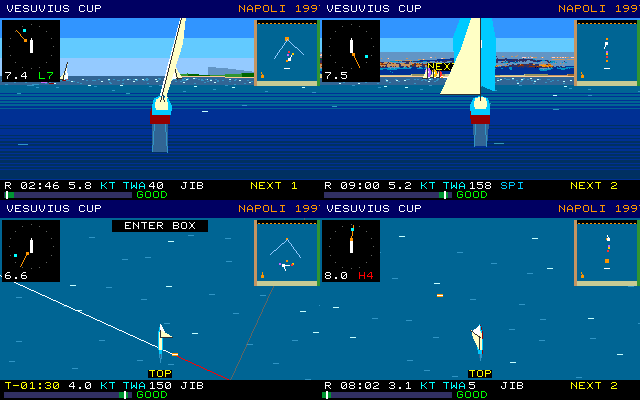
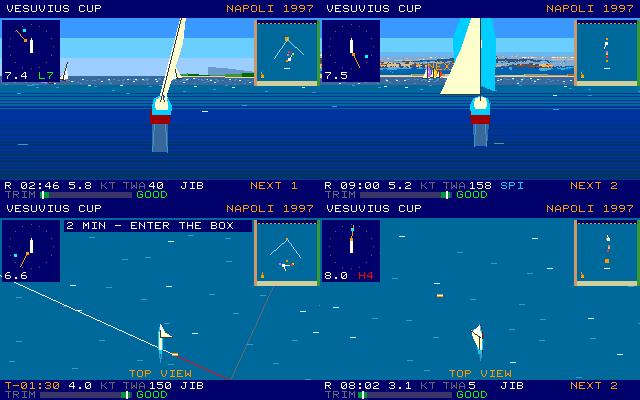
Release 4.2.0: consistent colours, navy race panels
- Load all 256 palette entries at start-up so colours no longer depend on
  the runtime's default palette or on the previous cartridge (the PRG32
  emulators showed a pink sea and colours that changed from run to run).
- Panoramas use their 16 authored colours exactly (entries 232-247).
- UI colours sit on cube levels so text backgrounds match fills everywhere.
- Restore the 4.0.0 race look: navy panels and HUD, orange/grey labels,
  TRIM label, full start banners, TOP VIEW and NEXT labels.
- Fix the clipped "NAPOLI 1997" header and draw the title's apostrophe.
- Regenerate store screenshots; document the text cost in PERFORMANCE.md.

diff --git a/src/game.c b/src/game.c
@@ -8,18 +8,20 @@
 #define H 200
 #define BLACK 0x0000
 #define WHITE 0xffff
-#define SEA 0x0452
-#define SKY 0x65df
-#define NAVY 0x0010
-#define GOLD 0xfda0
 #define RED 0xf800
 #define GREEN 0x07e0
 #define CYAN 0x07ff
-#define GREY 0x8410
-#define LAND 0x39e7
-/* Race-view colours sit exactly on the display's 6x6x6 colour cube, so the
-   indexed ILI9341 panel shows the same shades as the RGB565 QEMU display. */
+/* Every colour sits exactly on the 6x6x6 cube the cartridge loads into the
+   palette at start-up (set_palette), so the ILI9341 panel, QEMU and the
+   PRG32 emulators all resolve a colour to the same entry and text
+   backgrounds match the fills around them. */
 #define C6(r,g,b) ((uint16_t)((((r)*31+4)/5)<<11|(((g)*63+4)/5)<<5|(((b)*31+4)/5)))
+#define SEA C6(0,2,3)
+#define SKY C6(1,3,5)
+#define NAVY C6(0,0,2)
+#define GOLD C6(5,3,0)
+#define GREY C6(2,2,2)
+#define LAND C6(1,1,1)
 #define SKY1 C6(1,3,5)
 #define SKY2 C6(2,4,5)
 #define SKY3 C6(3,4,5)
@@ -38,12 +40,11 @@
 #define BUOY C6(5,3,0)
 #define SAND C6(5,4,3)
 #define LAND_GROUND C6(2,3,1)
-/* Race text sits on black and uses the firmware's named colours: the ILI9341
-   backend converts every text pixel, and only named colours skip its three
-   divisions (measured: 2,378 instructions per white-on-black character
-   against 7,053 on navy). */
-#define PANEL BLACK
-#define YELLOW 0xffe0
+/* Race instruments and HUD sit on navy panels. The ILI9341 backend converts
+   every text pixel and only named colours skip its three divisions, so a
+   navy-backed character costs about 7,000 instructions against 2,400 on
+   black: roughly 1 ms per HUD refresh, well inside the SPI-bound frame. */
+#define PANEL NAVY
 #define RACES 5
 #define START_COUNTDOWN_SECONDS 600
 #define RACE_LIMIT_SECONDS 2700
@@ -118,9 +119,16 @@ static uint32_t last_input,frame,rng=0x97ca1997u,wind_seed;static int team_sel,m
 /* PRG32's ILI9341 backend fills palette-indexed spans with memset but
    converts RGB565 colours pixel by pixel, so every fill goes through the
    palette index the firmware would pick for that colour. */
+#define BG_BASE 232
+/* The palette is runtime state: the emulators start from a 3-3-2 palette and
+   every runtime keeps whatever the previous cartridge loaded. Load all 256
+   entries so colours are identical on every device and every run: the eight
+   named colours, the firmware's system colours, the 6x6x6 cube that ci()
+   indexes, the panoramas' own 16 colours exactly, and a grey ramp. */
+static void set_palette(void){static const uint16_t sys[16]={0x0000,0xffff,0xf800,0x07e0,0x001f,0xffe0,0x07ff,0xf81f,0x8410,0xc618,0x8000,0x0400,0x0010,0x8400,0x0410,0x8010};unsigned i;for(i=0;i<16;i++)prg32_palette_set((uint8_t)i,sys[i]);for(i=0;i<216;i++)prg32_palette_set((uint8_t)(16u+i),C6(i/36u,i/6u%6u,i%6u));for(i=0;i<16;i++)prg32_palette_set((uint8_t)(BG_BASE+i),fairwind_background_palette[i]);for(i=0;i<8;i++){unsigned v=i*31u/7u;prg32_palette_set((uint8_t)(BG_BASE+16u+i),(uint16_t)(v<<11|(v*2u+(v>>4))<<5|v));}}
 static uint8_t ci(uint16_t c){static const uint16_t named[8]={0x0000,0xffff,0xf800,0x07e0,0x001f,0xffe0,0x07ff,0xf81f};uint8_t i;for(i=0;i<8;i++)if(c==named[i])return i;return (uint8_t)(16u+((c>>11)&31u)*5u/31u*36u+((c>>5)&63u)*5u/63u*6u+(c&31u)*5u/31u);}
 static void fill(int x,int y,int w,int h,uint16_t c){prg32_gfx_rect_indexed(x,y,w,h,ci(c));}
-static uint32_t rnd(void){rng^=rng<<13;rng^=rng>>17;rng^=rng<<5;return rng;}static int absi(int n){return n<0?-n:n;}static int slen(const char *t){int n=0;while(t[n])n++;return n;}static int clamp(int n,int lo,int hi){return n<lo?lo:n>hi?hi:n;}
+static uint32_t rnd(void){rng^=rng<<13;rng^=rng>>17;rng^=rng<<5;return rng;}static int absi(int n){return n<0?-n:n;}static int clamp(int n,int lo,int hi){return n<lo?lo:n>hi?hi:n;}
 static void number(int x,int y,int n,uint16_t fg,uint16_t bg){char b[8];int i=6;b[7]=0;if(n<0)n=0;do{b[i--]=(char)('0'+n%10);n/=10;}while(n&&i>=0);while(i>=0)b[i--]=' ';prg32_gfx_text8(x,y,b,fg,bg);}static void digit(int x,int y,int n,uint16_t fg,uint16_t bg){char b[2];b[0]=(char)('0'+clamp(n,0,9));b[1]=0;prg32_gfx_text8(x,y,b,fg,bg);}static void clock_mmss(int x,int y,int n,uint16_t fg,uint16_t bg){char b[6];int m;if(n<0)n=0;m=clamp(n/60,0,99);b[0]=(char)('0'+m/10);b[1]=(char)('0'+m%10);b[2]=':';b[3]=(char)('0'+(n%60)/10);b[4]=(char)('0'+n%10);b[5]=0;prg32_gfx_text8(x,y,b,fg,bg);}static void box(int x,int y,int w,int h,uint16_t e,uint16_t f){fill(x,y,w,h,e);fill(x+2,y+2,w-4,h-4,f);}
 /* Left-aligned integer, optionally with one decimal (n in tenths). */
 static void small_num(int x,int y,int n,int tenths,uint16_t fg,uint16_t bg){char b[8];int i=0,d=1;if(n<0)n=0;if(n>9999)n=9999;while(n/d>=10)d*=10;if(tenths&&d<10)d=10;for(;d;d/=10){if(tenths&&d==1)b[i++]='.';b[i++]=(char)('0'+n/d%10);}b[i]=0;prg32_gfx_text8(x,y,b,fg,bg);}
@@ -434,14 +442,14 @@ static void update_race(uint32_t in,uint32_t released){
     if(race_clock>RACE_LIMIT_SECONDS)for(i=0;i<4;i++)if(!boats[i].finished){boats[i].finished=1;boats[i].finish_time=(uint16_t)(race_clock+600+(COURSE_MARKS_MAX+1-(boats[i].started?boats[i].leg+1:0))*30);}
     if((done&&start_clock==0)||race_clock>RACE_LIMIT_SECONDS){score_race();screen=ST_RESULT;menu=0;prg32_audio_play_track(2);}
 }
-void fairwind_init(void){int i;for(i=0;i<16;i++)bg_idx[i]=ci(fairwind_background_palette[i]);prg32_gfx_clear(SEA);setup_sprites();prg32_band_set_game_info("FairWind-napoli97 | portable 64 KiB | multiplayer");prg32_audio_play_track(0);screen=ST_TITLE;}
+void fairwind_init(void){int i;set_palette();for(i=0;i<16;i++)bg_idx[i]=(uint8_t)(BG_BASE+i);prg32_gfx_clear_indexed(ci(SEA));setup_sprites();prg32_band_set_game_info("FairWind-napoli97 | portable 64 KiB | multiplayer");prg32_audio_play_track(0);screen=ST_TITLE;}
 void fairwind_update(void){uint32_t in=prg32_input_read(),p=in&~last_input,r=last_input&~in,now=prg32_ticks_ms();frame++;frame_ms=last_ticks?clamp((int)(now-last_ticks),10,66):FRAME_MS;last_ticks=now;if(p)ui_dirty=1;if(screen==ST_TITLE&&(p&PRG32_BTN_A))screen=ST_MODE;else if(screen==ST_MODE){if(p&(PRG32_BTN_UP|PRG32_BTN_DOWN))multiplayer=!multiplayer;if(p&PRG32_BTN_A)new_campaign();}else if(screen==ST_TEAM){if(p&PRG32_BTN_LEFT)team_sel=(team_sel+3)%4;if(p&PRG32_BTN_RIGHT)team_sel=(team_sel+1)%4;if(p&PRG32_BTN_A){menu=0;screen=ST_MANAGER;}}else if(screen==ST_MANAGER)update_manager(p);else if(screen==ST_BRIEF){if(p&(PRG32_BTN_LEFT|PRG32_BTN_UP))course_sel=(course_sel+COURSE_COUNT-1)%COURSE_COUNT;if(p&(PRG32_BTN_RIGHT|PRG32_BTN_DOWN))course_sel=(course_sel+1)%COURSE_COUNT;if(p&PRG32_BTN_A){if(multiplayer){peer_count=local_ready=0;if(fairwind_net_join(course_sel))screen=ST_LOBBY;else multiplayer=0;}if(!multiplayer)start_race();}}else if(screen==ST_LOBBY)update_lobby(p);else if(screen==ST_RACE)update_race(in,r);else if(screen==ST_RESULT&&(p&PRG32_BTN_A)){if(multiplayer)prg32_multiplayer_leave();race_no++;if(race_no>=RACES)screen=ST_SEASON;else{menu=0;screen=ST_MANAGER;prg32_audio_play_track(0);}}else if(screen==ST_SEASON&&(p&PRG32_BTN_A)){screen=ST_TITLE;prg32_audio_play_track(0);}last_input=in;}
 
 /* ------------------------------------------------------------- menus -- */
-static void header(const char *t){fill(0,0,W,18,NAVY);prg32_gfx_text8(6,5,t,WHITE,NAVY);prg32_gfx_text8(238,5,"NAPOLI 1997",GOLD,NAVY);}
+static void header(const char *t){fill(0,0,W,18,NAVY);prg32_gfx_text8(6,5,t,WHITE,NAVY);prg32_gfx_text8(226,5,"NAPOLI 1997",GOLD,NAVY);}
 static void landscape(void){unsigned scene=(unsigned)(race_no%RACES),i=fairwind_background_offsets[scene],end=fairwind_background_offsets[scene+1];int x=0,y=27;fill(0,18,W,33,SKY);while(i<end){int count=fairwind_background_rle8[i++];uint8_t color=bg_idx[fairwind_background_rle8[i++]];while(count){int width=count<320-x?count:320-x;prg32_gfx_rect_indexed(x,y,width,1,color);x+=width;count-=width;if(x==320){x=0;y++;}}}fill(0,51,W,15,SEA);}
 /* The FairWind logo on a white badge over the venue skyline. */
-static void draw_title(void){header("FairWind");landscape();fill(106,56,108,108,WHITE);fairwind_draw_sprite(112,62,&logo_sprite,0);prg32_gfx_text8(49,170,"12-METRE AMERICA'S CUP",WHITE,SEA);prg32_gfx_text8(76,186,"PRESS A TO SET SAIL",GOLD,SEA);}
+static void draw_title(void){header("FairWind");landscape();fill(106,56,108,108,WHITE);fairwind_draw_sprite(112,62,&logo_sprite,0);prg32_gfx_text8(49,170,"12-METRE AMERICA S CUP",WHITE,SEA);fill(180,170,2,3,WHITE);prg32_gfx_text8(76,186,"PRESS A TO SET SAIL",GOLD,SEA);}
 static void draw_mode(void){header("CHAMPIONSHIP MODE");box(48,48,224,78,GREY,NAVY);prg32_gfx_text8(77,67,"SINGLE PLAYER",!multiplayer?GOLD:WHITE,NAVY);prg32_gfx_text8(77,94,"NETWORK MULTIPLAYER",multiplayer?GOLD:WHITE,NAVY);prg32_gfx_text8(74,151,"UP/DOWN  A CONFIRM",WHITE,SEA);}
 static void draw_team(void){int i;header("CHOOSE YOUR SYNDICATE");for(i=0;i<4;i++){int y=28+i*36;box(24,y,272,29,i==team_sel?GOLD:GREY,NAVY);fill(34,y+7,20,15,teams[i].color);prg32_gfx_text8(64,y+6,teams[i].name,WHITE,NAVY);prg32_gfx_text8(64,y+17,teams[i].code,GOLD,NAVY);}prg32_gfx_text8(55,178,"LEFT/RIGHT  A CONFIRM",WHITE,SEA);}
 static void statrow(int y,const char *n,int v,int s){int i;prg32_gfx_text8(30,y,n,s?GOLD:WHITE,NAVY);for(i=0;i<8;i++)fill(132+i*13,y,10,7,i<v?CYAN:GREY);}
@@ -609,7 +617,7 @@ static void draw_buoy(int x,int y,int next){
     proj(&base,&sx,&sy);proj(&top,&tx,&ty);w=top_view_mode?3:1+(int)(10*FOCAL/base.z);if(sx<-20||sx>W+20)return;
     if(ty>sy-2)ty=sy-2;rect_clip(sx-w,ty,2*w,sy-ty+1,ci(BUOY));rect_clip(sx-w,(ty+sy)/2,2*w,1,1);
     if(next&&(frame&16)){uint8_t g=ci(GOLD);rect_clip(sx-w-3,ty-3,2*w+6,1,g);rect_clip(sx-w-3,sy+2,2*w+6,1,g);rect_clip(sx-w-3,ty-3,1,sy-ty+6,g);rect_clip(sx+w+2,ty-3,1,sy-ty+6,g);}
-    if(next&&ty-12>CLIP_TOP&&sx>16&&sx<W-16)prg32_gfx_text8(sx-15,ty-12,"NEXT",YELLOW,PANEL);
+    if(next&&ty-12>CLIP_TOP&&sx>16&&sx<W-16)prg32_gfx_text8(sx-15,ty-12,"NEXT",GOLD,top_view_mode?SEA2:SEA1);
     if(next&&top_view_mode){int i;for(i=0;i<32;i++){v3 z=cam_pt(x*10+((MARK_ZONE*10*fsin((uint16_t)(i*2048)))>>14),y*10+((MARK_ZONE*10*fcos((uint16_t)(i*2048)))>>14),0);int zx,zy;if(plane_d(&z,0)<0||plane_d(&z,1)<0||plane_d(&z,2)<0||plane_d(&z,3)<0)continue;proj(&z,&zx,&zy);rect_clip(zx,zy,1,1,ci(GOLD));}}
 }
 /* Committee boat with flag hoist: orange line flag, class "12" to the start,
@@ -678,20 +686,19 @@ static void draw_minimap(void){
     for(i=3;i>=0;i--){int bx=map_x(boats[i].x/1000),by=map_y(boats[i].y/1000);if(i){fill(bx-1,by-1,2,2,teams[boats[i].team&3].kite);continue;}line2(bx,by,bx+(int)((5*fsin(boats[0].heading))>>14),by-(int)((5*fcos(boats[0].heading))>>14),WHITE);fill(bx-1,by-1,3,3,WHITE);}
     line2(262+(int)((5*fsin(twd))>>14),76-(int)((5*fcos(twd))>>14),262,76,GOLD);fill(261,75,3,3,GOLD);
 }
-/* Short signal banners: the HUD already counts down, and every text pixel is
-   converted by the firmware, so the banner names only the flag in force. */
-static void draw_start_signal(void){const char *msg;if(start_clock>300)msg="WARNING";else if(start_clock>240)msg="CLASS FLAG";else if(start_clock>120)msg="P FLAG UP";else if(start_clock>60)msg="ENTER BOX";else if(start_clock>0)msg="P FLAG DOWN";else msg="START";fill(112,20,96,12,PANEL);prg32_gfx_text8(160-4*slen(msg),22,msg,start_clock?WHITE:YELLOW,PANEL);if(time_scale()>RACE_TIME_SCALE)prg32_gfx_text8(148,34,"x20",YELLOW,PANEL);}
+/* Start-sequence banner: the signal in force and what it asks of the crews. */
+static void draw_start_signal(void){const char *msg;if(start_clock>300)msg="10 MIN - WARNING";else if(start_clock>240)msg="5 MIN - CLASS SIGNAL";else if(start_clock>120)msg="4 MIN - P FLAG UP";else if(start_clock>60)msg="2 MIN - ENTER THE BOX";else if(start_clock>0)msg="1 MIN - P FLAG DOWN";else msg="START - CLASS FLAG DOWN";fill(64,20,188,12,PANEL);prg32_gfx_text8(66,22,msg,start_clock?WHITE:GOLD,PANEL);if(time_scale()>RACE_TIME_SCALE)prg32_gfx_text8(64,34,">> x20",GOLD,PANEL);}
 static void draw_hud(void){
-    const boat_t *b=&boats[0];int len=course_len[course_sel],opt=trim_opt(awa_deg(b)),err=absi(b->boom)-opt,kp=b->kite_prog*100/65535;const char *msg=0;uint16_t mc=YELLOW;
+    const boat_t *b=&boats[0];int len=course_len[course_sel],opt=trim_opt(awa_deg(b)),err=absi(b->boom)-opt,kp=b->kite_prog*100/65535;const char *msg=0;uint16_t mc=GOLD;
     fill(0,CLIP_BOT,W,H-CLIP_BOT,PANEL);
-    prg32_gfx_text8(4,182,start_clock?"T-":"R",start_clock?YELLOW:WHITE,PANEL);clock_mmss(20,182,start_clock?start_clock:race_clock,start_clock?YELLOW:WHITE,PANEL);
-    small_num(68,182,(int)((b->v>>8)*100/5144),1,WHITE,PANEL);prg32_gfx_text8(100,182,"KT",CYAN,PANEL);
-    prg32_gfx_text8(122,182,"TWA",CYAN,PANEL);small_num(148,182,absi(BAM2DEG(b->twa)),0,WHITE,PANEL);
+    prg32_gfx_text8(4,182,start_clock?"T-":"R",start_clock?GOLD:WHITE,PANEL);clock_mmss(20,182,start_clock?start_clock:race_clock,start_clock?GOLD:WHITE,PANEL);
+    small_num(68,182,(int)((b->v>>8)*100/5144),1,WHITE,PANEL);prg32_gfx_text8(100,182,"KT",GREY,PANEL);
+    prg32_gfx_text8(122,182,"TWA",GREY,PANEL);small_num(148,182,absi(BAM2DEG(b->twa)),0,WHITE,PANEL);
     prg32_gfx_text8(180,182,b->kite==KITE_SPIN?"SPI":b->kite==KITE_GENN?"GEN":"JIB",b->kite?teams[b->team&3].kite:WHITE,PANEL);
-    if(b->kite!=b->kite_want||(b->kite&&kp<100)){small_num(206,182,kp,0,YELLOW,PANEL);prg32_gfx_text8(230,182,b->kite!=b->kite_want?"v":"^",YELLOW,PANEL);}
-    if(b->started&&b->leg<len){prg32_gfx_text8(250,182,"NEXT",YELLOW,PANEL);digit(290,182,b->leg+1,YELLOW,PANEL);}else if(b->started)prg32_gfx_text8(250,182,"FINISH",YELLOW,PANEL);
-    fill(4,192,128,6,C6(1,1,2));fill(4+opt*14/10-4,192,9,6,C6(0,3,1));fill(4+b->sheet*14/10,197,1,2,GOLD);fill(4+clamp(absi(b->boom),0,90)*14/10,191,2,8,WHITE);
-    prg32_gfx_text8(136,191,err>8?"LUFF":err<-12?"STALL":"GOOD",err>8?RED:err<-12?YELLOW:GREEN,PANEL);
+    if(b->kite!=b->kite_want||(b->kite&&kp<100)){small_num(206,182,kp,0,GOLD,PANEL);prg32_gfx_text8(230,182,b->kite!=b->kite_want?"v":"^",GOLD,PANEL);}
+    if(b->started&&b->leg<len){prg32_gfx_text8(250,182,"NEXT",GOLD,PANEL);digit(290,182,b->leg+1,GOLD,PANEL);}else if(b->started)prg32_gfx_text8(250,182,"FINISH",GOLD,PANEL);
+    prg32_gfx_text8(4,191,"TRIM",GREY,PANEL);fill(40,192,92,6,C6(1,1,2));fill(40+opt-4,192,9,6,C6(0,3,1));fill(40+b->sheet,197,1,2,GOLD);fill(40+clamp(absi(b->boom),0,90),191,2,8,WHITE);
+    prg32_gfx_text8(136,191,err>8?"LUFF":err<-12?"STALL":"GOOD",err>8?RED:err<-12?GOLD:GREEN,PANEL);
     if(b->serving)msg="PENALTY TURN";
     else if(b->penalty){msg=(frame&32)?rule_names[b->rule]:"A+B PENALTY";mc=RED;}
     else if(b->aground){msg=b->y>(FIELD_Y1-20)*1000?"AREA LIMIT":"AGROUND";mc=RED;}
@@ -708,7 +715,7 @@ static void draw_race(void){
     if(!race_header){header(race_names[race_no]);race_header=1;}
     draw_wind_gauge();draw_minimap();
     if(start_line_active)draw_start_signal();
-    if(top_view_mode)prg32_gfx_text8(148,170,"TOP",YELLOW,PANEL);
+    if(top_view_mode)prg32_gfx_text8(128,170,"TOP VIEW",GOLD,SEA2);
     /* The header is static and the HUD refreshes at 7.5 Hz, so most frames
        push only rows 18-179 over SPI. */
     if(!(frame&3)||hud_force){draw_hud();hud_force=0;}

diff --git a/tests/source_checks.py b/tests/source_checks.py
@@ -40,14 +40,14 @@ assert 'me->kite_want==KITE_SPIN?KITE_NONE:KITE_SPIN' in s and 'me->kite_want==K
 assert '(PRG32_BTN_A|PRG32_BTN_B))==(PRG32_BTN_A|PRG32_BTN_B)' in s and 'begin_penalty_turn(me)' in s
 assert 'b->kite_prog' in s and 'b->kite=b->kite_want' in s
 # Close-quarters top view with hysteresis.
-assert 'TOP_VIEW_ENTER 70' in s and 'TOP_VIEW_EXIT 100' in s and 'close_to_rival_or_buoy(top_view_mode?TOP_VIEW_EXIT:TOP_VIEW_ENTER)' in s and '"TOP"' in s
+assert 'TOP_VIEW_ENTER 70' in s and 'TOP_VIEW_EXIT 100' in s and 'close_to_rival_or_buoy(top_view_mode?TOP_VIEW_EXIT:TOP_VIEW_ENTER)' in s and '"TOP VIEW"' in s
 # AI: timed start, VMG beats/runs with shift and layline tacking, rules, kites.
 assert 'static void helm_ai(boat_t *b)' in s and 'static uint16_t vmg_heading(' in s and 'layline_cos[4]' in s
 assert 'static uint16_t avoid_traffic(' in s and 'static int gives_way(' in s and 'kite_for(' in s and 'clear_water(b,45)' in s
 # Campaign, courses, start and finish.
 assert 'NAPOLI 1997' in s and 'RACES 5' in s and 'sponsors[4]' in s and 'money+=' in s and 'wins++' in s
 assert 'START_COUNTDOWN_SECONDS 600' in s and 'FAST_TIME_SCALE 20' in s and 'RACE_TIME_SCALE 4' in s
-assert '"WARNING"' in s and '"CLASS FLAG"' in s and '"P FLAG UP"' in s and '"ENTER BOX"' in s and '"P FLAG DOWN"' in s and 'msg="START"' in s
+assert '"10 MIN - WARNING"' in s and '"5 MIN - CLASS SIGNAL"' in s and '"4 MIN - P FLAG UP"' in s and '"2 MIN - ENTER THE BOX"' in s and '"1 MIN - P FLAG DOWN"' in s and 'msg="START - CLASS FLAG DOWN"' in s
 assert 'entered_box' in s and 'BOX_HALF' in s and 'if(all_started)start_line_active=0' in s
 assert 'course_names[COURSE_COUNT]' in s and 'course_len[COURSE_COUNT]={3,5,6}' in s
 assert 'WINDWARD / RUN' in s and 'OLYMPIC TRIANGLE' in s and '1992 IACC Z' in s
@@ -63,6 +63,9 @@ assert 'local_ready' in s and 'peer.flags&0x140' in s and 'if(!(p.flags&0x100))c
 # static header, a throttled HUD and menus that redraw only on change.
 assert 'prg32_gfx_rect_indexed' in s and 'prg32_gfx_pixel_indexed' in s and 'prg32_gfx_clear_indexed' in s
 assert 'prg32_gfx_rect(' not in s and 'prg32_gfx_pixel(' not in s
+# The cartridge owns the palette: identical colours on every runtime and run.
+assert 'static void set_palette(void)' in s and 'set_palette();' in s and 'bg_idx[i]=(uint8_t)(BG_BASE+i)' in s
+assert '0x0452' not in s and '#define SEA C6(' in s
 assert 'now=prg32_ticks_ms()' in s and 'static int32_t sim_ms(void)' in s and '#define FRAME_MS 33' in s
 assert 'if(!race_header)' in s and 'if(!(frame&3)||hud_force)' in s and 'if(!ui_dirty&&' in s
 assert 'es[m]=' in s  # one division per polygon edge
@@ -82,7 +85,7 @@ assert voices==set(range(8)),voices
 meta=json.loads((r/'metadata/metadata.json').read_text())
 assert meta['players']=={'min':1,'max':4}
 assert meta['name']=='FairWind-napoli97' and meta['id']=='org.riscv-prg32.fairwind-napoli97'
-assert meta['version']=='4.1.0' and 'selectable-courses' in meta['features'] and 'stern-chase-view' in meta['features']
+assert meta['version']=='4.2.0' and 'selectable-courses' in meta['features'] and 'stern-chase-view' in meta['features']
 assert 'basic-rrs-rules' in meta['features'] and 'wind-shifts' in meta['features']
 assert meta['cartridge_profile']=='portable-64k'
 print('source checks: OK; stern-view engine, sailing physics, wind shifts, AI, rules, courses, audio, and multiplayer verified')

diff --git a/tests/harness/run_harness.c b/tests/harness/run_harness.c
@@ -25,7 +25,7 @@ static void reset_peers(void) {
 
 /* Draw-budget counters: RGB565 fills cost a colour conversion per pixel on
    the ILI9341 backend, indexed fills are memsets, text converts per pixel. */
-static long g_rgb_px, g_idx_calls, g_chars, g_top_rows_touched, g_hud_touched;
+static long g_palette_sets, g_rgb_px, g_idx_calls, g_chars, g_top_rows_touched, g_hud_touched;
 static void note_rect(int x, int y, int w, int h) {
     if (y < 18 && h > 0) g_top_rows_touched++;
     if (y + h > 180 && h > 0) g_hud_touched++;
@@ -48,6 +48,7 @@ void prg32_gfx_pixel(int x, int y, uint16_t c) { (void)c; note_rect(x, y, 1, 1);
 void prg32_gfx_rect_indexed(int x, int y, int w, int h, uint8_t c) { (void)c; g_idx_calls++; note_rect(x, y, w, h); }
 void prg32_gfx_pixel_indexed(int x, int y, uint8_t c) { (void)c; note_rect(x, y, 1, 1); }
 void prg32_gfx_clear_indexed(uint8_t c) { (void)c; note_rect(0, 0, 320, 200); }
+void prg32_palette_set(uint8_t i, uint16_t c) { (void)i; (void)c; g_palette_sets++; }
 /* The firmware paces frames at 33 ms; the harness clock is deterministic. */
 uint32_t prg32_ticks_ms(void) { static uint32_t t; return t += 33; }
 void prg32_gfx_text8(int x, int y, const char *s, uint16_t fg, uint16_t bg) {
@@ -101,6 +102,8 @@ static int failures = 0;
 static void run_one_full_season(int verbose) {
     reset_harness_globals();
     fairwind_init();
+    CHECK(g_palette_sets == 256, "init should load all 256 palette entries");
+    CHECK(ci(SEA) != ci(NAVY) && ci(SKY) != ci(SEA), "UI colours should resolve to distinct cube entries");
     CHECK(screen == ST_TITLE, "should start at title screen");
     tap(PRG32_BTN_A); /* -> MODE */
     CHECK(screen == ST_MODE, "A at title should reach mode select");
@@ -628,8 +631,8 @@ static void run_draw_budget_scenario(void) {
     }
     CHECK(top_frames == 0, "budget: the static race header is never redrawn");
     CHECK(hud_frames * 3 < frames, "budget: the HUD refreshes at most one frame in four");
-    CHECK(max_chars <= 64, "budget: at most 64 text characters in any race frame");
-    CHECK(chars <= 40 * frames, "budget: at most 40 text characters per race frame on average");
+    CHECK(max_chars <= 96, "budget: at most 96 text characters in any race frame");
+    CHECK(chars <= 56 * frames, "budget: at most 56 text characters per race frame on average");
     /* Menus redraw only when something changes. */
     screen = ST_TITLE; ui_dirty = 1; fairwind_draw(); g_idx_calls = g_chars = 0;
     for (int i = 0; i < 30; i++) { fairwind_update(); fairwind_draw(); }

diff --git a/tools/host_render.c b/tools/host_render.c
@@ -1,5 +1,5 @@
 /* Host renderer: runs the real game.c against a 320x200 framebuffer that
-   quantises colours like the ILI9341's 6x6x6 palette, drives the player's
+   resolves colours through the palette the cartridge loads, drives the player's
    yacht with the same AI helm the rivals use, and writes PPM frames.
    Built and run by tools/host_capture.py; not part of the cartridge. */
 #include <stdio.h>
@@ -9,10 +9,14 @@
 
 static uint16_t fb[200][320];
 static uint32_t g_input;
+/* The palette the cartridge loads; RGB565 colours resolve to an entry the
+   way the firmware's prg32_gfx_index_for_rgb565 does. */
+static uint16_t g_pal[256];
 static uint16_t quant(uint16_t c) {
-    unsigned r = ((c >> 11) & 31u) * 5u / 31u, g = ((c >> 5) & 63u) * 5u / 63u, b = (c & 31u) * 5u / 31u;
-    if (c == 0xffff || c == 0xf800 || c == 0x07e0 || c == 0x001f || c == 0xffe0 || c == 0x07ff || c == 0xf81f) return c;
-    return (uint16_t)(((r * 31u / 5u) << 11) | ((g * 63u / 5u) << 5) | (b * 31u / 5u));
+    static const uint16_t named[8] = {0x0000, 0xffff, 0xf800, 0x07e0, 0x001f, 0xffe0, 0x07ff, 0xf81f};
+    unsigned r = ((c >> 11) & 31u) * 5u / 31u, g = ((c >> 5) & 63u) * 5u / 63u, b = (c & 31u) * 5u / 31u, i;
+    for (i = 0; i < 8; i++) if (c == named[i]) return g_pal[i];
+    return g_pal[16u + r * 36u + g * 6u + b];
 }
 
 #include "../src/game.c"
@@ -26,13 +30,8 @@ static void raw_rect(int x, int y, int w, int h, uint16_t c) {
 }
 void prg32_gfx_rect(int x, int y, int w, int h, uint16_t c) { raw_rect(x, y, w, h, quant(c)); }
 void prg32_gfx_pixel(int x, int y, uint16_t c) { prg32_gfx_rect(x, y, 1, 1, c); }
-/* Palette indices map back to RGB565 exactly as the firmware palette does. */
-static uint16_t pal(uint8_t i) {
-    static const uint16_t named[8] = {0x0000, 0xffff, 0xf800, 0x07e0, 0x001f, 0xffe0, 0x07ff, 0xf81f};
-    unsigned v = i - 16u;
-    if (i < 8) return named[i];
-    return (uint16_t)((((v / 36u) * 31u / 5u) << 11) | ((((v / 6u) % 6u) * 63u / 5u) << 5) | ((v % 6u) * 31u / 5u));
-}
+static uint16_t pal(uint8_t i) { return g_pal[i]; }
+void prg32_palette_set(uint8_t i, uint16_t c) { g_pal[i] = c; }
 void prg32_gfx_rect_indexed(int x, int y, int w, int h, uint8_t i) { raw_rect(x, y, w, h, pal(i)); }
 void prg32_gfx_pixel_indexed(int x, int y, uint8_t i) { raw_rect(x, y, 1, 1, pal(i)); }
 void prg32_gfx_clear_indexed(uint8_t i) { raw_rect(0, 0, 320, 200, pal(i)); }

diff --git a/tests/stub/prg32.h b/tests/stub/prg32.h
@@ -11,7 +11,7 @@
 typedef struct {const uint8_t *pixels;const uint16_t *palette;uint16_t width,height,frame_count,palette_count;uint8_t bits_per_pixel;int16_t transparent_index;} prg32_indexed_sprite_t;
 typedef struct {uint32_t player_id;int16_t x,y;uint16_t sprite,flags;uint32_t input,frame,last_seen_ms;} prg32_player_state_t;
 uint32_t prg32_input_read(void);void prg32_band_set_game_info(const char*);void prg32_audio_play_track(uint16_t);
-void prg32_gfx_clear(uint16_t);void prg32_gfx_present(void);void prg32_gfx_rect(int,int,int,int,uint16_t);void prg32_gfx_pixel(int,int,uint16_t);void prg32_gfx_rect_indexed(int,int,int,int,uint8_t);void prg32_gfx_pixel_indexed(int,int,uint8_t);void prg32_gfx_clear_indexed(uint8_t);uint32_t prg32_ticks_ms(void);void prg32_gfx_text8(int,int,const char*,uint16_t,uint16_t);
+void prg32_gfx_clear(uint16_t);void prg32_gfx_present(void);void prg32_gfx_rect(int,int,int,int,uint16_t);void prg32_gfx_pixel(int,int,uint16_t);void prg32_gfx_rect_indexed(int,int,int,int,uint8_t);void prg32_gfx_pixel_indexed(int,int,uint8_t);void prg32_gfx_clear_indexed(uint8_t);void prg32_palette_set(uint8_t,uint16_t);uint32_t prg32_ticks_ms(void);void prg32_gfx_text8(int,int,const char*,uint16_t,uint16_t);
 void prg32_sprite_draw_bitplanes(int,int,const prg32_indexed_sprite_t*,uint32_t);
 void prg32_multiplayer_init(void);int prg32_multiplayer_available(void);int prg32_multiplayer_join(const char*,uint32_t);int prg32_multiplayer_leave(void);void prg32_multiplayer_tick(void);int prg32_multiplayer_set_local_state(int16_t,int16_t,uint16_t,uint16_t);int prg32_multiplayer_set_input(uint32_t);int prg32_multiplayer_get_peer_count(void);int prg32_multiplayer_get_peer(int,prg32_player_state_t*);
 #endif

diff --git a/docs/PERFORMANCE.md b/docs/PERFORMANCE.md
@@ -133,7 +133,7 @@ The behavioural harness (`tests/harness/run_harness.c`) enforces the design on e
 
 | Scenario | Checks |
 |---|---|
-| `run_draw_budget_scenario` | No RGB565 fill in any race frame; the header is never redrawn; the HUD refreshes on at most one frame in four; at most 64 text characters in any frame and 40 on average; an idle menu draws nothing. |
+| `run_draw_budget_scenario` | No RGB565 fill in any race frame; the header is never redrawn; the HUD refreshes on at most one frame in four; at most 96 text characters in any frame and 56 on average; an idle menu draws nothing. |
 | `run_frame_rate_scenario` | 15 and 30 fps produce the same yacht. |
 
 `tests/source_checks.py` also rejects any `prg32_gfx_rect(` or `prg32_gfx_pixel(` call in `src/game.c`.
@@ -144,3 +144,7 @@ The behavioural harness (`tests/harness/run_harness.c`) enforces the design on e
    `idf.py -D SDKCONFIG_DEFAULTS="sdkconfig.defaults;sdkconfig.defaults.metrics" build`
 2. Install `dist/store/FairWind-napoli97-esp32c6.prg32`, start a race, and read `update_us`, `draw_us`, `present_us` and `fps_mean` from the metrics server. The PRG32 performance-test guide explains the fields.
 3. Expect `present_us` ≈ 27–31 ms, `update_us + draw_us` of a few milliseconds, and `fps_mean` ≈ 28–30 in the stern view.
+
+## 6. Navy race panels (after 4.1.0)
+
+The race instruments, HUD and start banners went back to the 4.0.0 look: navy panels, orange and grey labels, the full start-sequence banners and the `TOP VIEW` label. Navy is not a named colour, so each of these characters costs about 7,000 instructions instead of about 2,400. The harness's worst case, a pre-start the player never leaves, averages 46 characters per race frame (maximum 81) instead of 24 (maximum 61). That adds about 0.25 M instructions, roughly 1.7–2.4 ms, per frame. The frame stays SPI-bound at about 26.7 ms of transfer, so the estimate is 27–30 fps in the pre-start and about 30 fps racing. Confirm on hardware with the frame metrics.

diff --git a/docs/tutorial/10-pixels-hud.md b/docs/tutorial/10-pixels-hud.md
@@ -23,6 +23,19 @@ index = 16 + 36·r + 6·g + b,        r, g, b ∈ {0, …, 5}
 
 Indices 0–7 are eight "named" colours (black, white, red, green, blue, yellow, cyan, magenta), and 232–255 are greys. When the palette buffer is sent to the LCD, each index is looked up and expanded back to RGB565.
 
+The palette is **runtime state**, not a constant. The firmware only loads its default at boot, the PRG32 emulators start from a different (3-3-2) palette, and any cartridge can change entries with `prg32_palette_set`, which survive into the next cartridge. A game that relies on the default palette therefore shows different colours on different devices and even from run to run. FairWind loads all 256 entries itself at start-up:
+
+```c
+static void set_palette(void) {
+    /* 0-15 named and system colours, 16-231 the cube, 232-247 the panoramas'
+       own 16 colours exactly, 248-255 a grey ramp */
+    ...
+    for (i = 0; i < 216; i++) prg32_palette_set(16 + i, C6(i / 36, i / 6 % 6, i % 6));
+    for (i = 0; i < 16; i++)  prg32_palette_set(BG_BASE + i, fairwind_background_palette[i]);
+    ...
+}
+```
+
 This has two consequences for a game programmer.
 
 **Only cube colours are shown exactly.** Any RGB565 colour you ask for is rounded to the nearest cube level. FairWind defines all its race colours directly as cube levels, so what you design is what you see:
@@ -69,7 +82,7 @@ while (i < end) {
 }
 ```
 
-`bg_idx` holds the palette index of each of the 16 panorama colours. It is computed once at start-up, so the decoder never converts a colour.
+`bg_idx` holds the palette index of each of the 16 panorama colours. Because `set_palette()` loads those colours exactly into entries 232–247, `bg_idx[i]` is simply `232 + i`, so the decoder never converts a colour and the skyline keeps its authored shades.
 
 ## 10.3 Bitplane sprites: the logo
 

diff --git a/docs/TECHNICAL_NOTES.md b/docs/TECHNICAL_NOTES.md
@@ -52,7 +52,7 @@ Yachts are modelled in decimetres:
 
 Kites grow from the bow with hoist progress.
 
-All race colours are exact levels of the ILI9341 driver's 6×6×6 palette cube (`C6(r,g,b)`), so the indexed hardware display and the RGB565 QEMU display match. All drawing goes through the palette-indexed firmware calls with an index computed once per call (`ci()`, the firmware's own conversion rule). See `docs/PERFORMANCE.md` for why this matters. The HUD overlays sit above the clipped world region (rows 18–179):
+The cartridge loads all 256 palette entries at start-up (`set_palette()`): the named colours, the 6×6×6 cube at the `C6(r,g,b)` levels, the 16 panorama colours exactly at 232–247 and a grey ramp. Every UI and race colour is a `C6` level or a named colour, so the ILI9341 panel, QEMU and the PRG32 emulators resolve it to the same entry, and no palette left by another cartridge or a runtime's own default can change the colours. All drawing goes through the palette-indexed firmware calls with an index computed once per call (`ci()`, the firmware's own conversion rule). See `docs/PERFORMANCE.md` for why this matters. The HUD overlays sit above the clipped world region (rows 18–179):
 - a wind instrument
 - a course-up map
 - start-signal messages

diff --git a/CHANGELOG.md b/CHANGELOG.md
@@ -1,5 +1,17 @@
 # Changelog
 
+## 4.2.0 — 2026-09-26 — Consistent colours, navy race panels
+
+### Graphics
+
+- The cartridge loads the whole 256-entry palette at start-up. Colours no longer depend on the runtime's default palette or on what the previous cartridge left: the PRG32 emulators showed a pink sea, yellow menu backgrounds and colours that changed from run to run.
+- The Bay of Naples panoramas use their 16 authored colours exactly instead of the nearest cube colours.
+- Menu colours (sea, sky, navy, gold, grey) are cube levels, so text backgrounds match the fills around them on every runtime.
+- "NAPOLI 1997" in the header is no longer clipped at the right edge.
+- The title's apostrophe is drawn by the cartridge, since not every runtime font has one.
+- The race view is back to the 4.0.0 look: navy instrument panels and HUD with orange and grey labels, the `TRIM` label, the full start-sequence banners ("2 MIN - ENTER THE BOX"), `TOP VIEW` and the `NEXT` label over the next mark. It costs about 2 ms more CPU per frame (see `docs/PERFORMANCE.md` §6).
+- Gold and grey are the orange (5,3,0) and grey (2,2,2) cube levels of 4.0.0.
+
 ## 4.1.0 — 2026-09-26 — Fluid on the ESP32-C6, new logo, tutorial
 
 ### Performance
